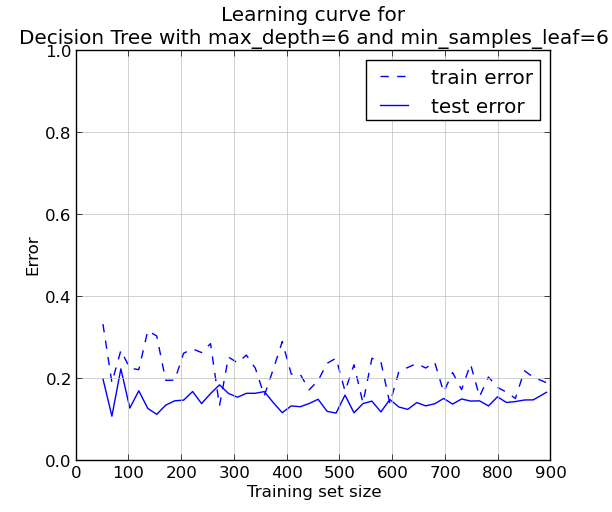
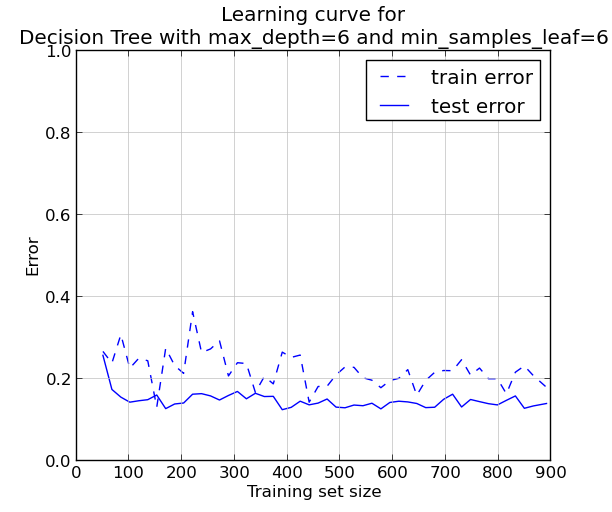
fix: once the best algorithm with cross-validation has been found, re-train it with the whole training set before predicting

Changed region(s): [[0.1552, 0.625, 0.9003, 0.8125]]

diff --git a/titanic/04_trees_and_forests.py b/titanic/04_trees_and_forests.py
@@ -38,7 +38,7 @@ def test_algo(algo, data, classes, name, options={}):
 	global best_score, best_classifier, best_classifier_name
 	if score >= best_score:
 		best_score = score
-		best_classifier = (classifier, algo, options, name)
+		best_classifier = (algo, options, name)
 
 df, X, Y = load_train_data(formatting_functions)
 X = X[features]
@@ -57,8 +57,12 @@ for min_samples in range(1,21):
 print
 
 
-classifier, algo, options, name = best_classifier
+algo, options, name = best_classifier
 print "Best overall: %s with %.5f" % (name, best_score)
+
+# re-train best algo with whole training set
+classifier = algo(**options)
+classifier.fit(X, Y)
 
 output_predictions(classifier, '04_submission.csv', formatting_functions, features)
 plot_learning_curve(name, algo, options, X, Y, min_size=50, n_steps=50)
@@ -80,11 +84,13 @@ test_algo(RandomForestClassifier, X, Y, "Random Forest with 50 trees, max_depth=
 			{'n_estimators': 50, 'max_depth': 6, 'min_samples_leaf': 6})
 test_algo(RandomForestClassifier, X, Y, "Random Forest with 100 trees, max_depth=6 and min_samples_leaf=6", 
 			{'n_estimators': 100, 'max_depth': 6, 'min_samples_leaf': 6})
-test_algo(RandomForestClassifier, X, Y, "Random Forest with 500 trees, max_depth=6 and min_samples_leaf=6", 
-			{'n_estimators': 500, 'max_depth': 6, 'min_samples_leaf': 6})
+test_algo(RandomForestClassifier, X, Y, "Random Forest with 200 trees, max_depth=6 and min_samples_leaf=6", 
+			{'n_estimators': 200, 'max_depth': 6, 'min_samples_leaf': 6})
 print
 
-classifier, algo, options, name = best_classifier
+algo, options, name = best_classifier
 print "Best overall Random Forest: %s with %.5f" % (name, best_score)
 
+classifier = algo(**options)
+classifier.fit(X, Y)
 output_predictions(classifier, '04_submission_rf.csv', formatting_functions, features)
